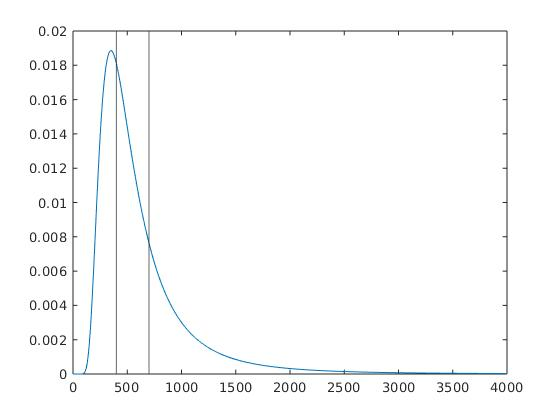
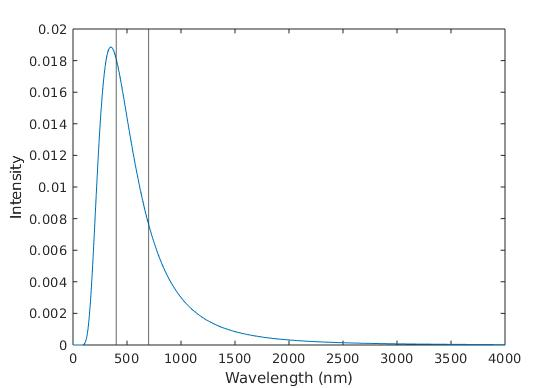
assign4: added labels to plots in Q1.6

diff --git a/assgn4/matlab/metameric.m b/assgn4/matlab/metameric.m
@@ -1,6 +1,6 @@
 function T=metameric(Lf,Lg)
     error = @(T) norm((Lf - Lg)' * blackbody(T, 400:10:700));
     T = fminbnd(error, 2500, 10000);
-    figure; fplot(error, [2500 10000]);
+    figure; fplot(error, [2500 10000]); xlabel('Temperature (K)'); ylabel('Euclidean Error');
 end
 

diff --git a/assgn4/matlab/q1_6.m b/assgn4/matlab/q1_6.m
@@ -8,4 +8,4 @@ T = metameric(Lf, Lg);
 fprintf('Optimal temperature = %.4fK\n', T);
 figure;
 l = 0.01:10:4000;
-plot(l, blackbody(T, l)); xline(400); xline(700);
+plot(l, blackbody(T, l)); xline(400); xline(700); xlabel('Wavelength (nm)'); ylabel('Intensity');
